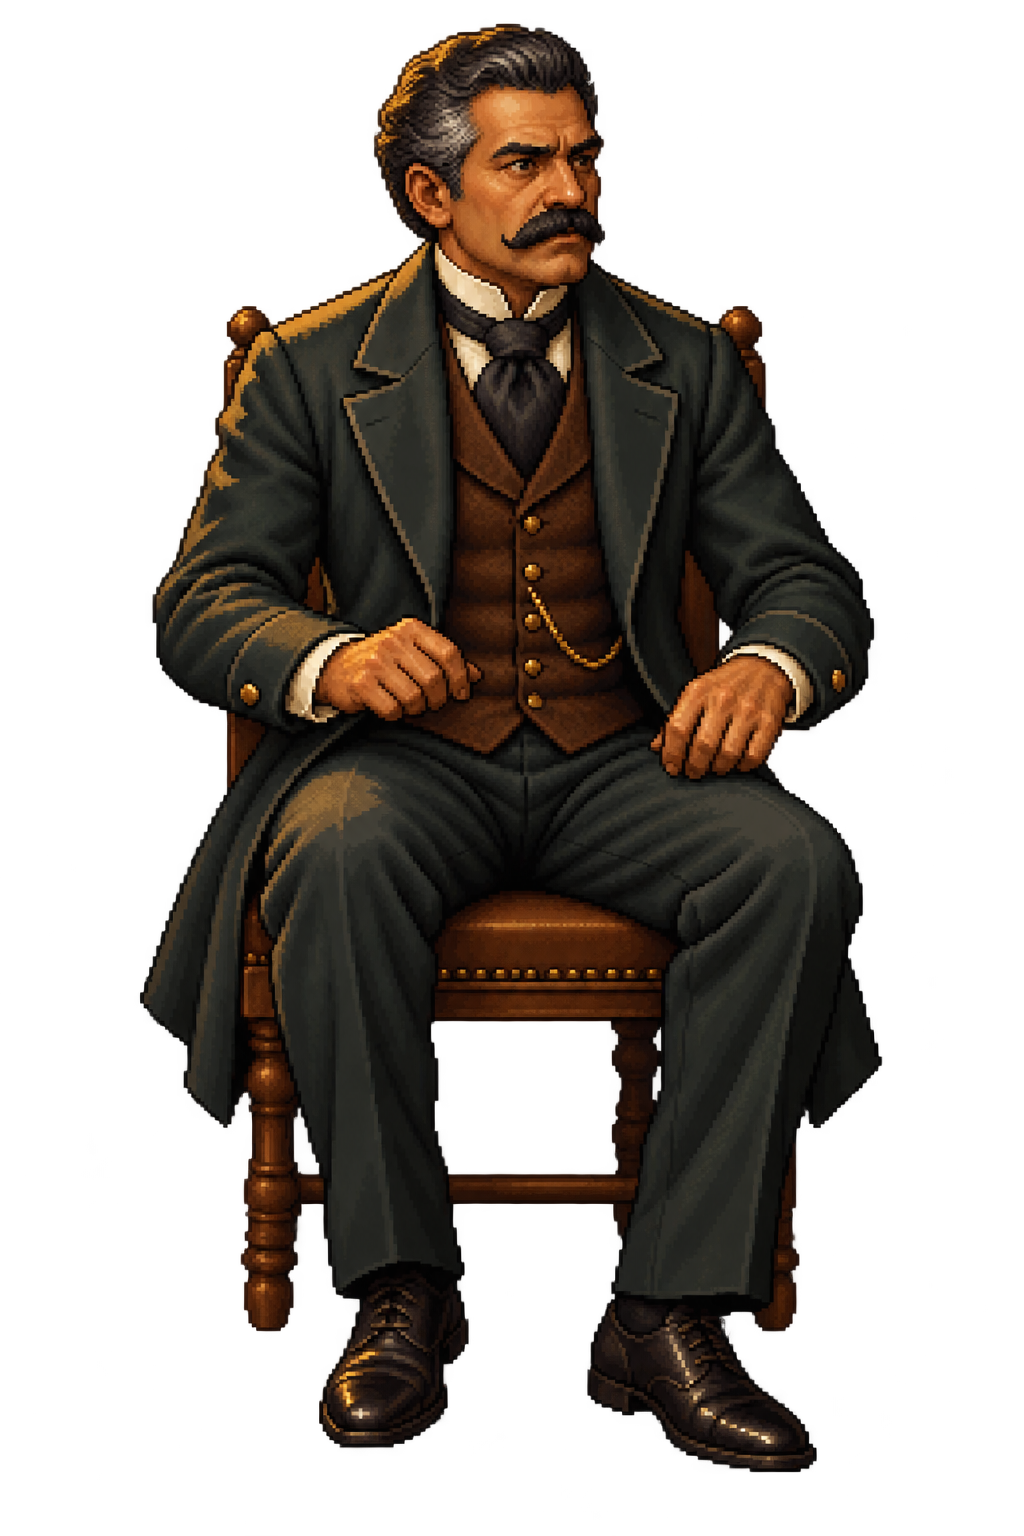
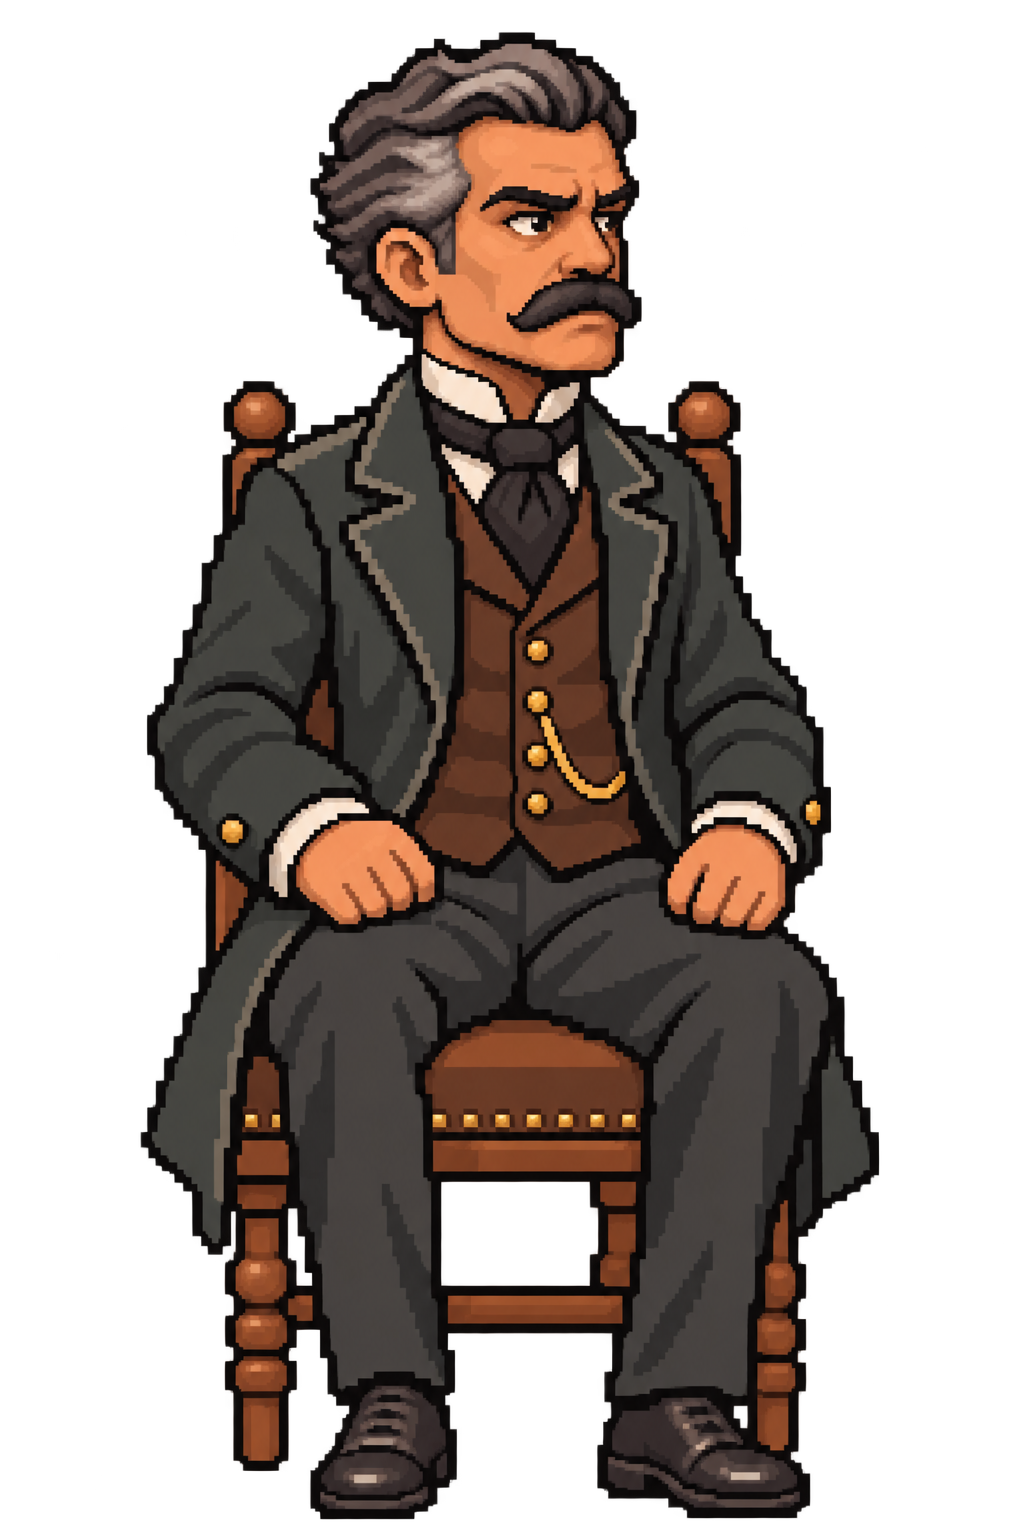
feat: simplify seated delegate to match character pixel art

diff --git a/docs/delegado_sentado_pixel.md b/docs/delegado_sentado_pixel.md
@@ -1,0 +1,7 @@
+# Delegado sentado — revisão de estilo
+
+O asset `assets/custody/delegado-sentado.png` foi redesenhado com image_gen built-in usando Floriano como referência principal de proporção e pixel art, e o retrato revisado de Brás Cubas como referência de simplificação facial. O delegado conserva pele morena, cabelo grisalho penteado para trás, bigode, expressão séria, sobrecasaca carvão, colete castanho e cadeira de madeira.
+
+A cabeça e os olhos têm leitura mais expressiva, as mãos e dobras foram simplificadas e as sombras usam blocos maiores de pixels. O PNG RGBA de 1024×1536 substitui o caminho já carregado por `CustodyScene`, mantendo apresentação em 150×225 e origem nos pés. Nenhum código de fluxo foi alterado.
+
+Prompts completos, referências e fontes estão em [delegado-sentado.json](../frontend/public/assets/custody/delegado-sentado.json). Os pixels e o alfa gerados foram preservados; permanece uma franja ambiente semitransparente discreta no output, sem fundo opaco. A transparência e a composição foram inspecionadas, e o build TypeScript/Vite foi aprovado.
